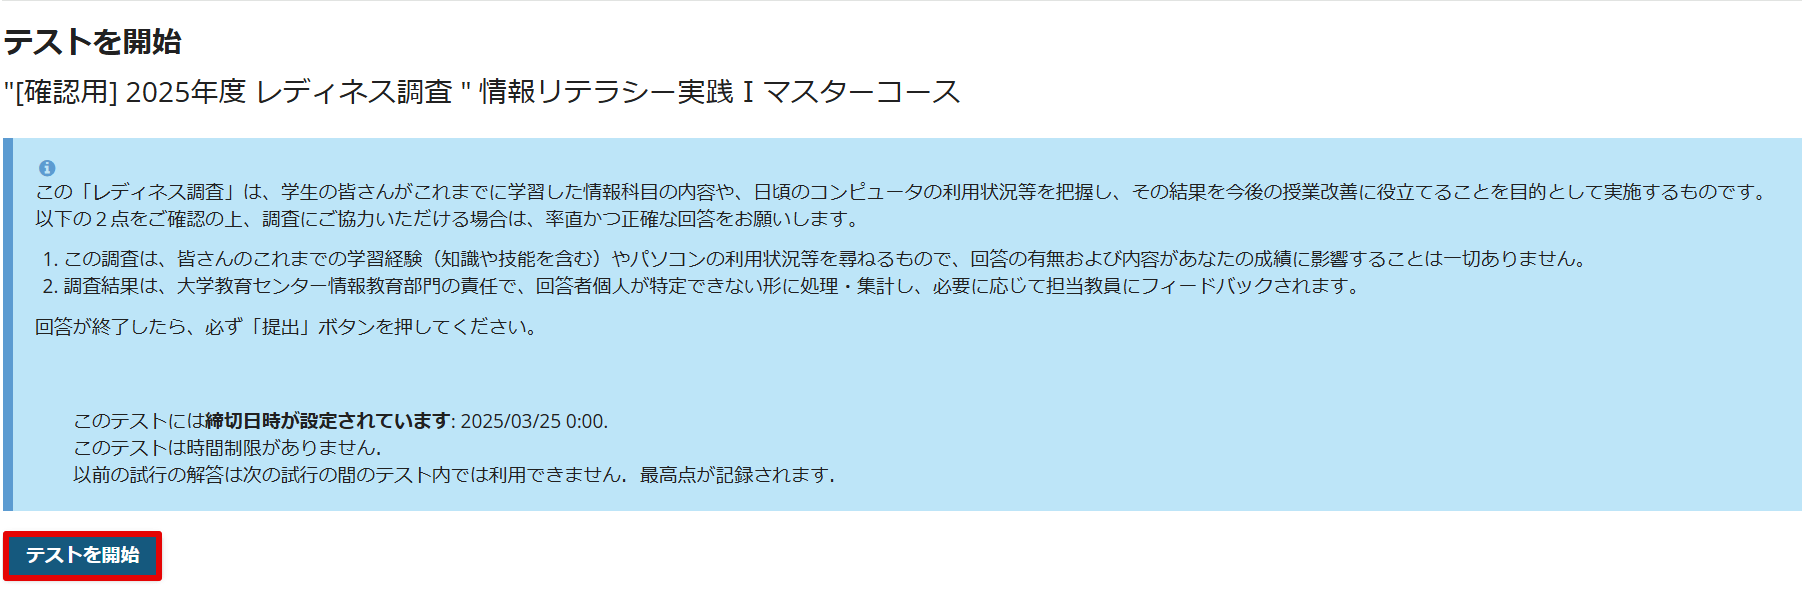
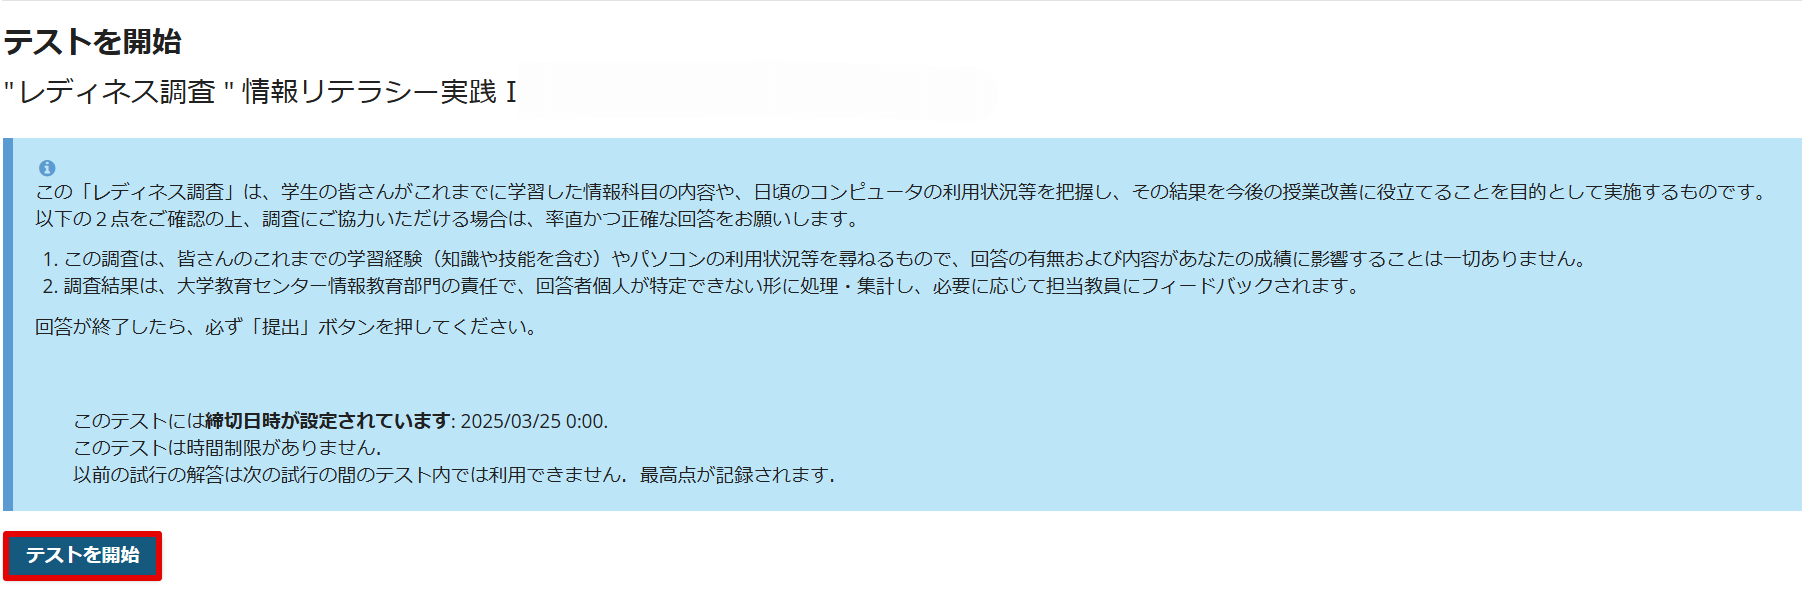
239 修正
画像中の不要な単語を削除しました．
また，本文中の説明文を一部修正しました．

Changed region(s): [[0.0, 0.1204, 0.5283, 0.1806]]

diff --git a/readiness/student.md b/readiness/student.md
@@ -14,12 +14,15 @@ title: レディネス調査回答マニュアル（学生用）
 {% screenshot kibaco_login4.png "二段階認証を実行（図は Microsoft Authenticator を用いる場合の例）" %}
 
 <div class="alert alert-danger" role="alert">
-<p>kibaco のログインに利用するユーザID・パスワードは<strong>教育研究システムアカウント</strong>です。初期パスワードは、入学時に申請した教育研究システムのパスワードが設定されています。</p>
+<p>kibaco のログインに利用するユーザID・パスワードは<strong>TMU IDとそのパスワード</strong>です。初期パスワードは、入学時に申請したパスワードが設定されています。</p>
 </div>
 
-&#9313; 時間割に表示されている授業名を選択します。
+&#9313; 左部のメニューの "時間割" を押して、時間割画面に移ります。
 
 {% screenshot kibaco_top1.png "時間割を選択" %}
+
+&#9314; 時間割に表示されている "情報リテラシー実践Ⅰ" を押して、授業のコース画面に移ります。
+
 {% screenshot kibaco_top2.png "授業コースを選択" %}
 
 
